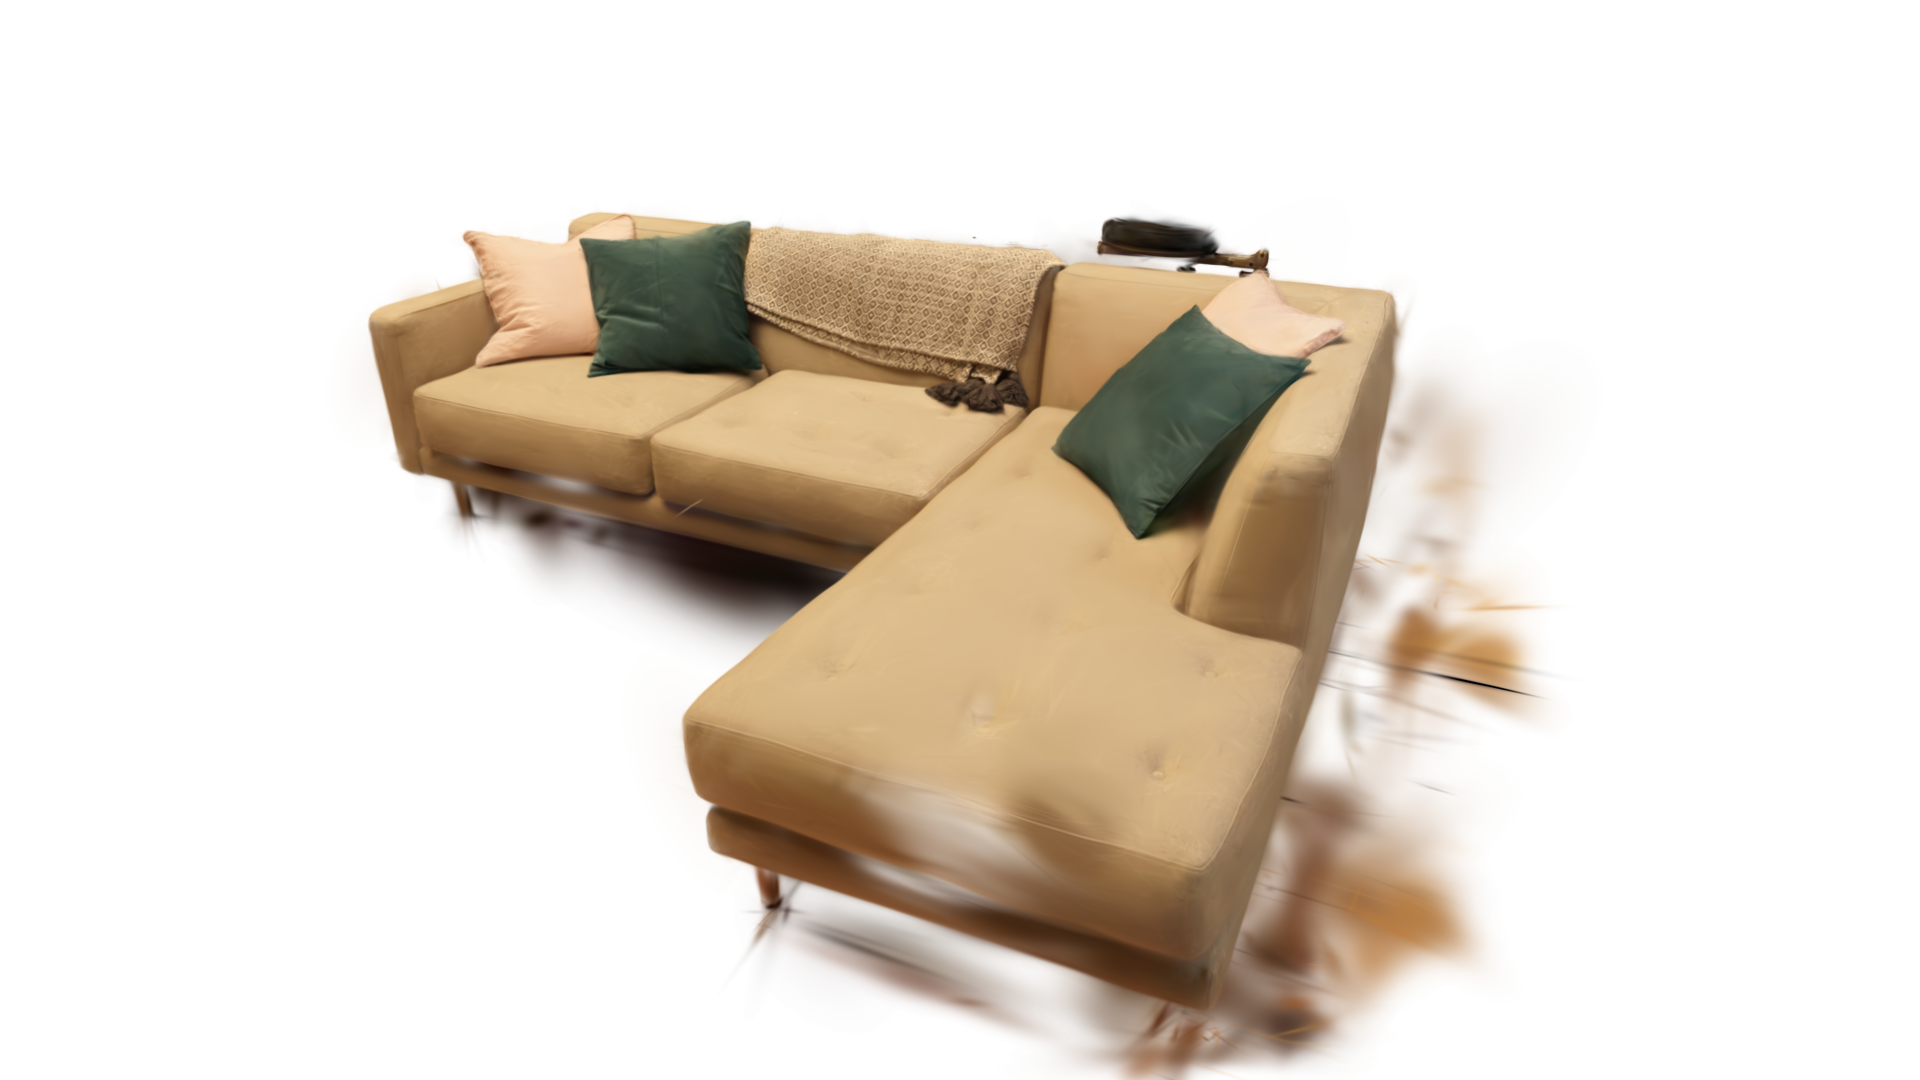
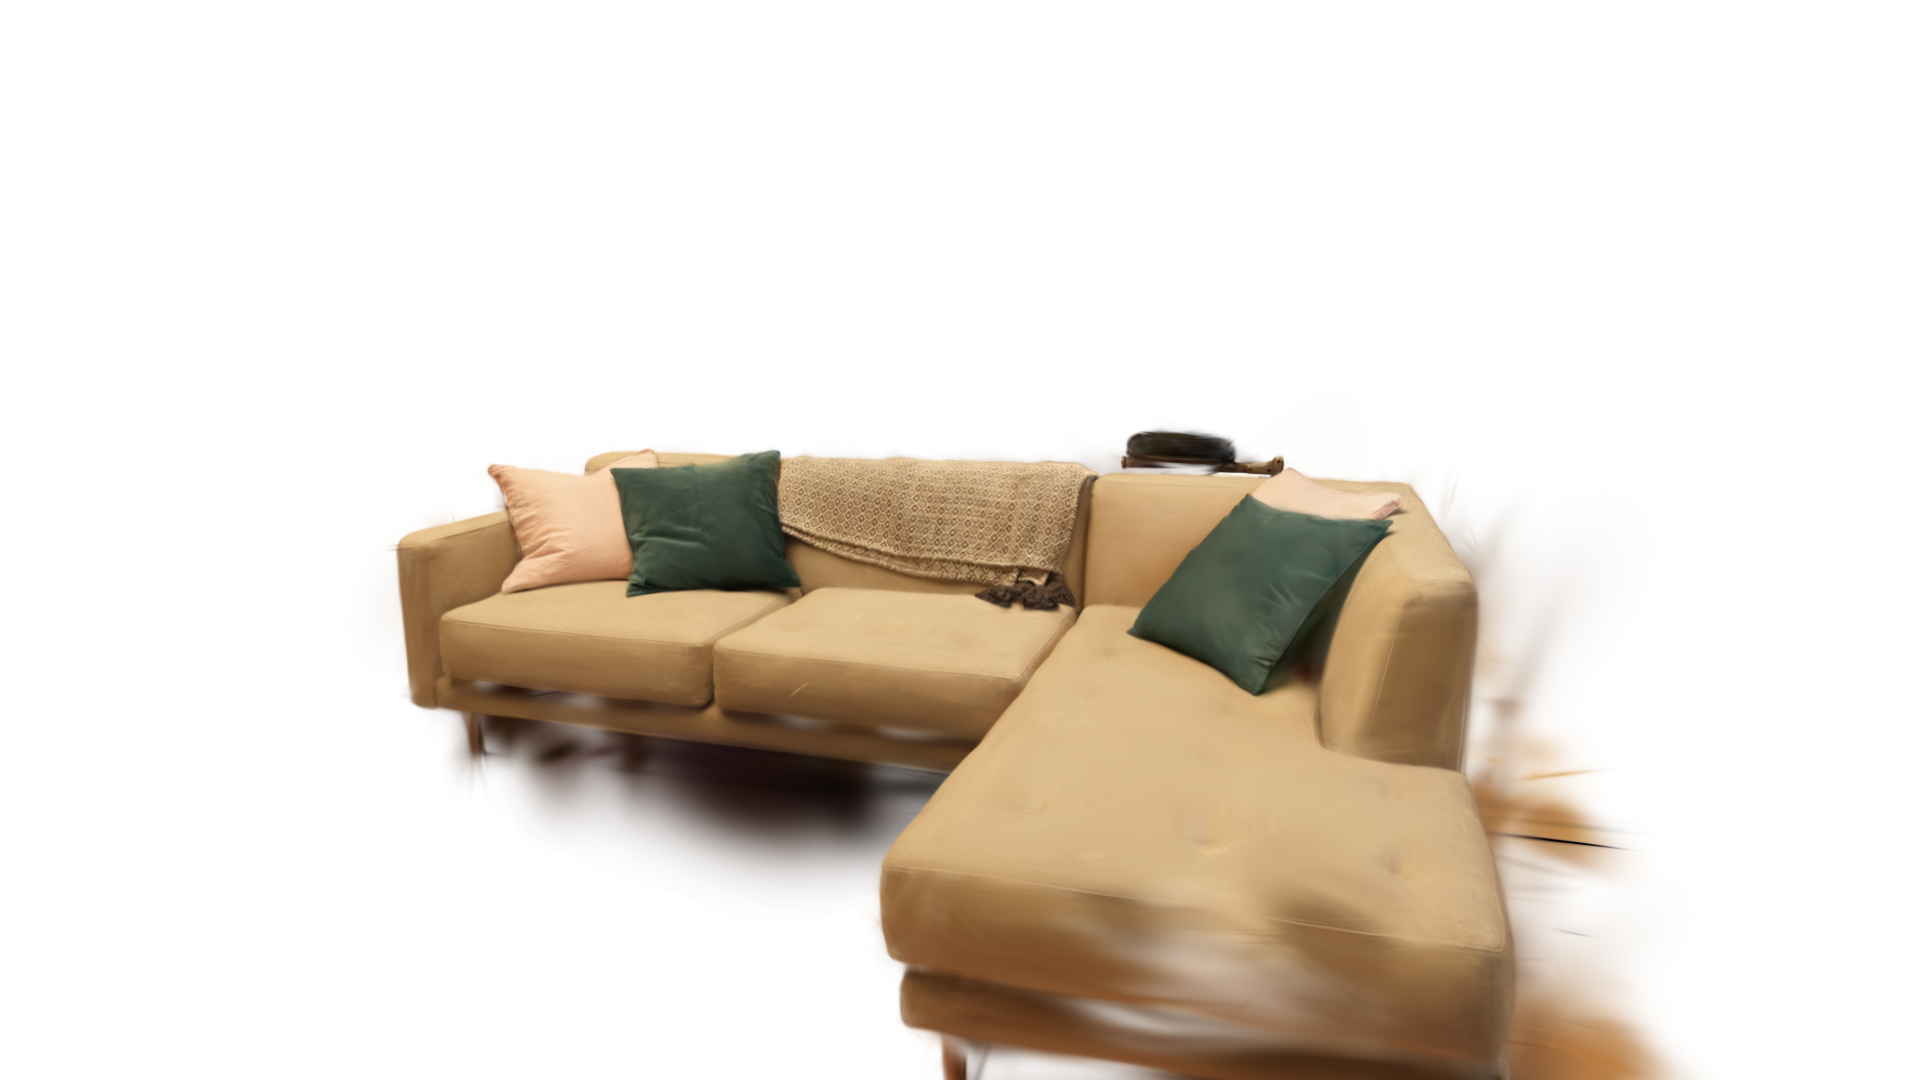
README: replace 4-row table with matplotlib showcase grid
Adds pipeline/build_showcase.py that reads cameras.json and emits:
  - <slug>_pair.png   labeled side-by-side per object
  - _grid.png         single 4-row figure with row labels

README now uses _grid.png as the main visual + links to per-object
pairs and cameras.json. Sofa locked at the last clean camera
(eye=[-5.27,0.37,2.76], target=[-4.69,0.86,0.39]).

diff --git a/pipeline/build_showcase.py b/pipeline/build_showcase.py
@@ -1,0 +1,97 @@
+#!/usr/bin/env python3
+"""Build labeled side-by-side showcase images from the wipe-pair renders.
+
+Reads docs/showcase/wipe/cameras.json and produces:
+  - docs/showcase/wipe/<slug>_pair.png   side-by-side per object (background | object)
+  - docs/showcase/wipe/_grid.png         2x2 grid of all 4 pairs
+"""
+import argparse
+import json
+from pathlib import Path
+
+import matplotlib.pyplot as plt
+import matplotlib.image as mpimg
+
+DISPLAY_LABEL = {
+    "grey_armchair": "Armchair",
+    "beige_sectional_sofa": "Sectional sofa",
+    "wooden_coffee_table": "Coffee table",
+    "wooden_sideboard": "Sideboard",
+}
+
+
+def build_pair(out_dir: Path, slug: str, label: str):
+    bg = out_dir / f"{slug}_background.png"
+    obj = out_dir / f"{slug}_object.png"
+    fig, axes = plt.subplots(1, 2, figsize=(20, 5.625), dpi=120)
+    axes[0].imshow(mpimg.imread(str(bg)))
+    axes[0].set_title("Original scan", fontsize=18, pad=12)
+    axes[0].axis("off")
+    axes[1].imshow(mpimg.imread(str(obj)))
+    axes[1].set_title("Extracted .splat", fontsize=18, pad=12)
+    axes[1].axis("off")
+    fig.suptitle(label, fontsize=24, y=1.02, weight="bold")
+    fig.tight_layout()
+    out_png = out_dir / f"{slug}_pair.png"
+    fig.savefig(str(out_png), bbox_inches="tight", pad_inches=0.15,
+                facecolor="white")
+    plt.close(fig)
+    print(f"  → {out_png}")
+
+
+def build_grid(out_dir: Path, slugs_labels):
+    n = len(slugs_labels)
+    fig, axes = plt.subplots(n, 2,
+                             figsize=(20, 5.625 * n),
+                             dpi=100,
+                             gridspec_kw={"wspace": 0.05, "hspace": 0.15})
+    for row, (slug, label) in enumerate(slugs_labels):
+        bg = mpimg.imread(str(out_dir / f"{slug}_background.png"))
+        obj = mpimg.imread(str(out_dir / f"{slug}_object.png"))
+        axes[row, 0].imshow(bg)
+        axes[row, 0].axis("off")
+        axes[row, 1].imshow(obj)
+        axes[row, 1].axis("off")
+        # Row label as text in upper-left of the bg panel
+        axes[row, 0].text(0.02, 0.96, label,
+                          transform=axes[row, 0].transAxes,
+                          fontsize=26, weight="bold",
+                          color="white", va="top", ha="left",
+                          bbox=dict(facecolor="black", alpha=0.65,
+                                    boxstyle="round,pad=0.4",
+                                    edgecolor="none"))
+        if row == 0:
+            axes[row, 0].set_title("Original scan",
+                                    fontsize=22, pad=12, weight="bold")
+            axes[row, 1].set_title("Extracted .splat",
+                                    fontsize=22, pad=12, weight="bold")
+    fig.tight_layout()
+    out_png = out_dir / "_grid.png"
+    fig.savefig(str(out_png), bbox_inches="tight", pad_inches=0.2,
+                facecolor="white")
+    plt.close(fig)
+    print(f"  → {out_png}")
+
+
+def main():
+    ap = argparse.ArgumentParser()
+    ap.add_argument("--out-dir", type=Path,
+                    default=Path("docs/showcase/wipe"))
+    args = ap.parse_args()
+
+    cameras = json.loads((args.out_dir / "cameras.json").read_text())
+    slugs = list(cameras["objects"].keys())
+
+    print("[per-object pairs]")
+    for slug in slugs:
+        label = DISPLAY_LABEL.get(slug, slug.replace("_", " ").title())
+        build_pair(args.out_dir, slug, label)
+
+    print("[grid]")
+    slugs_labels = [(s, DISPLAY_LABEL.get(s, s.replace("_", " ").title()))
+                    for s in slugs]
+    build_grid(args.out_dir, slugs_labels)
+
+
+if __name__ == "__main__":
+    main()

diff --git a/README.md b/README.md
@@ -20,19 +20,20 @@ The full set reassembles into the original scan.
 
 ### Object isolation
 
-Each pair below is rendered from the **same camera** — left is the
-original scan, right is a single isolated `.splat` extracted by the
-pipeline. Matched cameras mean a website can wipe-cross-dissolve
-between them.
+Each row is rendered from the **same camera** — left is the original
+scan, right is a single isolated `.splat` extracted by the pipeline.
+Matched cameras mean a website can wipe-cross-dissolve between them.
 
-| Object | In context | Isolated |
-|---|---|---|
-| Armchair | ![](docs/showcase/wipe/grey_armchair_background.png) | ![](docs/showcase/wipe/grey_armchair_object.png) |
-| Sectional sofa | ![](docs/showcase/wipe/beige_sectional_sofa_background.png) | ![](docs/showcase/wipe/beige_sectional_sofa_object.png) |
-| Coffee table | ![](docs/showcase/wipe/wooden_coffee_table_background.png) | ![](docs/showcase/wipe/wooden_coffee_table_object.png) |
-| Sideboard | ![](docs/showcase/wipe/wooden_sideboard_background.png) | ![](docs/showcase/wipe/wooden_sideboard_object.png) |
+![Object isolation showcase](docs/showcase/wipe/_grid.png)
 
-Camera specs in [`docs/showcase/wipe/cameras.json`](docs/showcase/wipe/cameras.json).
+Per-object side-by-sides + camera specs:
+[grey_armchair](docs/showcase/wipe/grey_armchair_pair.png) ·
+[beige_sectional_sofa](docs/showcase/wipe/beige_sectional_sofa_pair.png) ·
+[wooden_coffee_table](docs/showcase/wipe/wooden_coffee_table_pair.png) ·
+[wooden_sideboard](docs/showcase/wipe/wooden_sideboard_pair.png) ·
+[cameras.json](docs/showcase/wipe/cameras.json).
+
+Regenerate the grid with `python pipeline/build_showcase.py`.
 
 ## How it works
 